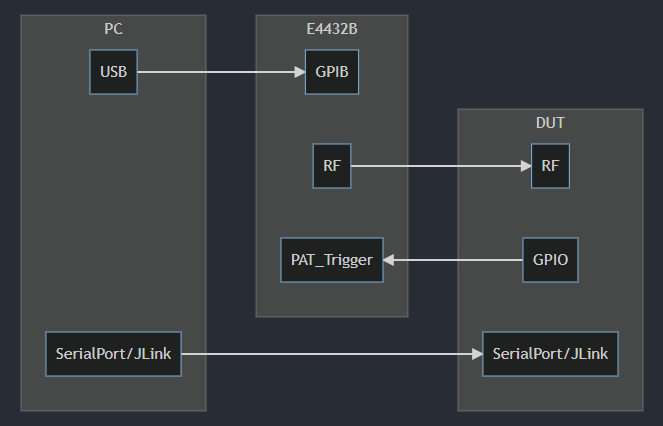
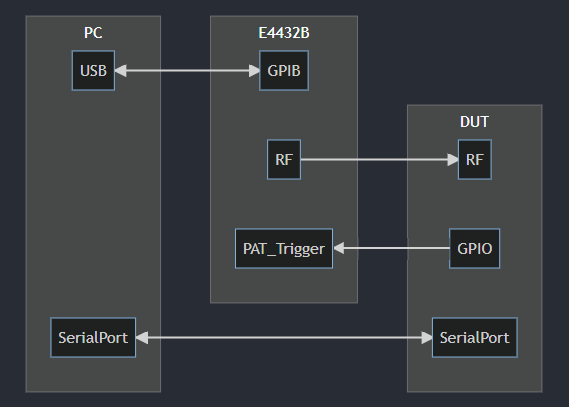
Rework according to Lei's comment

Changed region(s): [[0.0299, 0.0295, 0.9859, 0.973]]

diff --git a/README.MD b/README.MD
@@ -3,8 +3,13 @@
 # How to Test Sensitivity of Long Range DSSS PHY on E4432B
 
 ## Overview
+Silicon Labs has provided a Long Range DSSS PHY to help customers to achieve the crucial design element of maximum effective range. The Long Range feature is described in [UG460](https://www.silabs.com/documents/public/user-guides/ug460-efr32-series-1-long-range-configuration.pdf).   
+
+The Long Range DSSS PHY is derived from the highly optimized IEEE802.15.4 Zigbee PHY. Currently the detailed parameters of this PHY is not public and users can't customize it. To help customers test the sensitivity of their final Long Range products, we implement a tool to generate the ARB waveforms.   
+
 This article introduces the approach of testing the sensitivity of Silicon Labs Long Range PHY on Agilent E4432B, including the tool of generating the ARB waveform, the steps of setting the E4432B and how to do the PER test.
 
+If you are using any other Signal Generator, or have further questions about this approach, please feel free to contact us through [Silicon Labs support portal](https://community.silabs.com/s/support-home), thanks.
 
 ## Hardware Required
 - Signal Generator E4432B
@@ -18,7 +23,7 @@ This article introduces the approach of testing the sensitivity of Silicon Labs 
 - IEEE 488.2 GPIB Driver (Install the driver according to your GPIB card provider).
   - [Agilent 82357B USB/GPIB Driver](https://www.keysight.com/hk/en/support/82357B/usb-gpib-interface-high-speed-usb-2-0.html#drivers)
   - [NI GPIB-USB-HS Driver](https://www.ni.com/zh-cn/support/downloads/drivers/download.ni-488-2.html#409630)
-- [Silabs_LR_WaveformGenerator.exe](https://github.com/silabs-JimL/LR_WaveFormGenerator/releases/download/v1.2/Silabs_LR_WaveformGenerator.exe)
+- [Silabs_LR_WaveformGenerator.exe](https://github.com/silabs-JimL/LR_WaveFormGenerator/releases/download/v1.2/Silabs_LR_WaveformGenerator.exe) (Please make sure the GPIB driver is installed before running this tool).
 
 ## Connection
 <div align="center">
@@ -28,12 +33,12 @@ This article introduces the approach of testing the sensitivity of Silicon Labs 
 
 **Notes:**  
 
-Please use the GPIB driver to verify the GPIB connection. Assuming you are using the NI GPIB-USB-HS card, you can start the program **NI Max** to verify it.
-<div align="center">
-    <img src="images/ni-max.png">  
-</div>  
-</br>
-
+- Please use the GPIB driver to verify the GPIB connection. Assuming you are using the NI GPIB-USB-HS card, you can start the program **NI Max** to verify it.
+  <div align="center">
+      <img src="images/ni-max.png">  
+  </div>  
+  </br>
+- The serial port connection is used to run CLI commands on the DUT.
 
 ## How It Works
 ### Generate Waveform
@@ -45,9 +50,11 @@ Please use the GPIB driver to verify the GPIB connection. Assuming you are using
     </div>  
     </br>
     
-    **Note**: The byte order in the GUI of the tool is the same with the byte order of the packet over the air.
+    **Notes**: 
+    - The byte order in the GUI of the tool is the same with the byte order of the packet over the air.
+    - The LongRange PHY uses IEEE802.15.4 frame format. The maximum frame size is 127 bytes. As the CRC field takes 2 bytes, users can input maximum **125** bytes as the payload.
 
-3. Fill the waveform file name. This is the waveform file name stored on the signal generator.
+3. Fill the waveform file name. This is the waveform file name stored on the signal generator. The filename is **non-case-sensitive**.
 4. Press the button “Generate” to generate the IQ data.
    
     <div align="center">
@@ -55,7 +62,7 @@ Please use the GPIB driver to verify the GPIB connection. Assuming you are using
     </div>  
     </br>   
 
-5. Click the button **Scan** to scan the connected E4432B, then click the **Download** button to download the generated waveform to the instrument. It takes about 30~40 seconds to complete.
+5. Click the button **Scan** to scan the connected E4432B, then click the **Download** button to download the generated waveform to the instrument. It takes about **30~40** seconds to complete. The waveform file will be stored on E4432B as a non-volatile file.
 
 
 ### Settings of E4432B
@@ -149,7 +156,7 @@ SG Tx Power | SG Tx Count | DUT Rx Count
  -129.3 | 5000 | 4957
  -129.4 | 5000 | 4955
 
- **Conclusion**: With PER tolerance set to 1%, the sensitivity is **-129.4 dbm**.
+ **Conclusion**: With PER tolerance set to 1%, the sensitivity is **-129.4 dbm**. The result is in accord with the measured data in table 3-1 of [UG460](https://www.silabs.com/documents/public/user-guides/ug460-efr32-series-1-long-range-configuration.pdf) (Pay attention that the DUT uses a TCXO which makes the result a little better).
 
 ### Test Result of Long Range DSSS 9.6 kbps PHY
 
@@ -166,7 +173,8 @@ SG Tx Power | SG Tx Count | DUT Rx Count
  -120.6 | 1000 | 989
  -120.5 | 5000 | 4970
 
- **Conclusion**: With PER tolerance set to 1%, the sensitivity is **-120.5 dbm**.
+ **Conclusion**: With PER tolerance set to 1%, the sensitivity is **-120.5 dbm**. The result is in accord with the measured data in table 3-1 of [UG460](https://www.silabs.com/documents/public/user-guides/ug460-efr32-series-1-long-range-configuration.pdf) (Pay attention that the DUT uses a TCXO which makes the result a little better).
+
 
 ## FAQ
 ### How to configure the trigger pin in RAILTEST?
@@ -175,5 +183,12 @@ On Simplicity Studio V5, open the `.slcp` file of the RAILTEST project, open the
     <img src="images/triggerpin.png">  
 </div>  
 </br>
+
+## References
+- [KBA:Understanding DSSS Encoding and Decoding on EFR32 Devices](https://community.silabs.com/s/article/understanding-dsss-encoding-and-decoding-on-efr32-devices?language=en_US)
+- [KBA:How to Download 802.15.4 Arbitrary Waveform Files to Agilent Signal Generator E4432B](https://community.silabs.com/s/article/how-to-download-802-15-4-arbitrary-waveform-files-to-agilent-signal-generator-e4?language=en_US)
+- [KBA:How to Manually Set-up the Arb Waveform Generator for functional test](https://community.silabs.com/s/article/how-to-manually-set-up-the-arb-waveform-generator-for-functional-test?language=en_US)
+- [Generation_of_IEEE_802154_Signals](https://scdn.rohde-schwarz.com/ur/pws/dl_downloads/dl_application/application_notes/1gp105/1GP105_1E_Generation_of_IEEE_802154_Signals.pdf)
+- [E44xxB ESG Signal Generators SCPI Command Reference](https://www.keysight.com/hk/en/assets/9018-40176/programming-guides/9018-40176.pdf)
 
 

diff --git a/Connection.MD b/Connection.MD
@@ -1,14 +1,14 @@
 ```mermaid
-graph LR
+flowchart LR
     subgraph PC
     GPIB_PC[USB]
-    SerialPort/JLink_PC[SerialPort/JLink]
+    SerialPort/JLink_PC[SerialPort]
     end
 
     subgraph DUT    
     RF_DUT[RF]
     Trigger_DUT[GPIO]
-    SerialPort/JLink_DUT[SerialPort/JLink]
+    SerialPort/JLink_DUT[SerialPort]
     end    
 
     subgraph E4432B
@@ -19,9 +19,40 @@ graph LR
 
     GPIB_PC <--> GPIB_SG
     RF_SG --> RF_DUT
-    SerialPort/JLink_PC <--> SerialPort/JLink_DUT
+    %%Trigger_DUT --> PAT_SG
+    SerialPort/JLink_PC <---> SerialPort/JLink_DUT
 
 ```
 
+```mermaid
+graph RL
+    subgraph PC
+    GPIB_PC[USB]
+    SerialPort/JLink_PC[SerialPort]
+    end
 
-Trigger_DUT --> PAT_SG
+    subgraph DUT    
+    RF_DUT[RF]
+    Trigger_DUT[GPIO]
+    SerialPort/JLink_DUT[SerialPort]
+    end    
+
+    subgraph E4432B
+    GPIB_SG[GPIB]
+    RF_SG[RF]
+    PAT_SG[PAT_Trigger]
+    end
+
+    GPIB_PC <--> GPIB_SG
+    %%RF_SG --> RF_DUT
+    Trigger_DUT --> PAT_SG
+    SerialPort/JLink_PC <---> SerialPort/JLink_DUT
+    
+```
+
+```mermaid
+flowchart LR
+    A o--o B
+    B <--> C
+    C x--x D
+```
